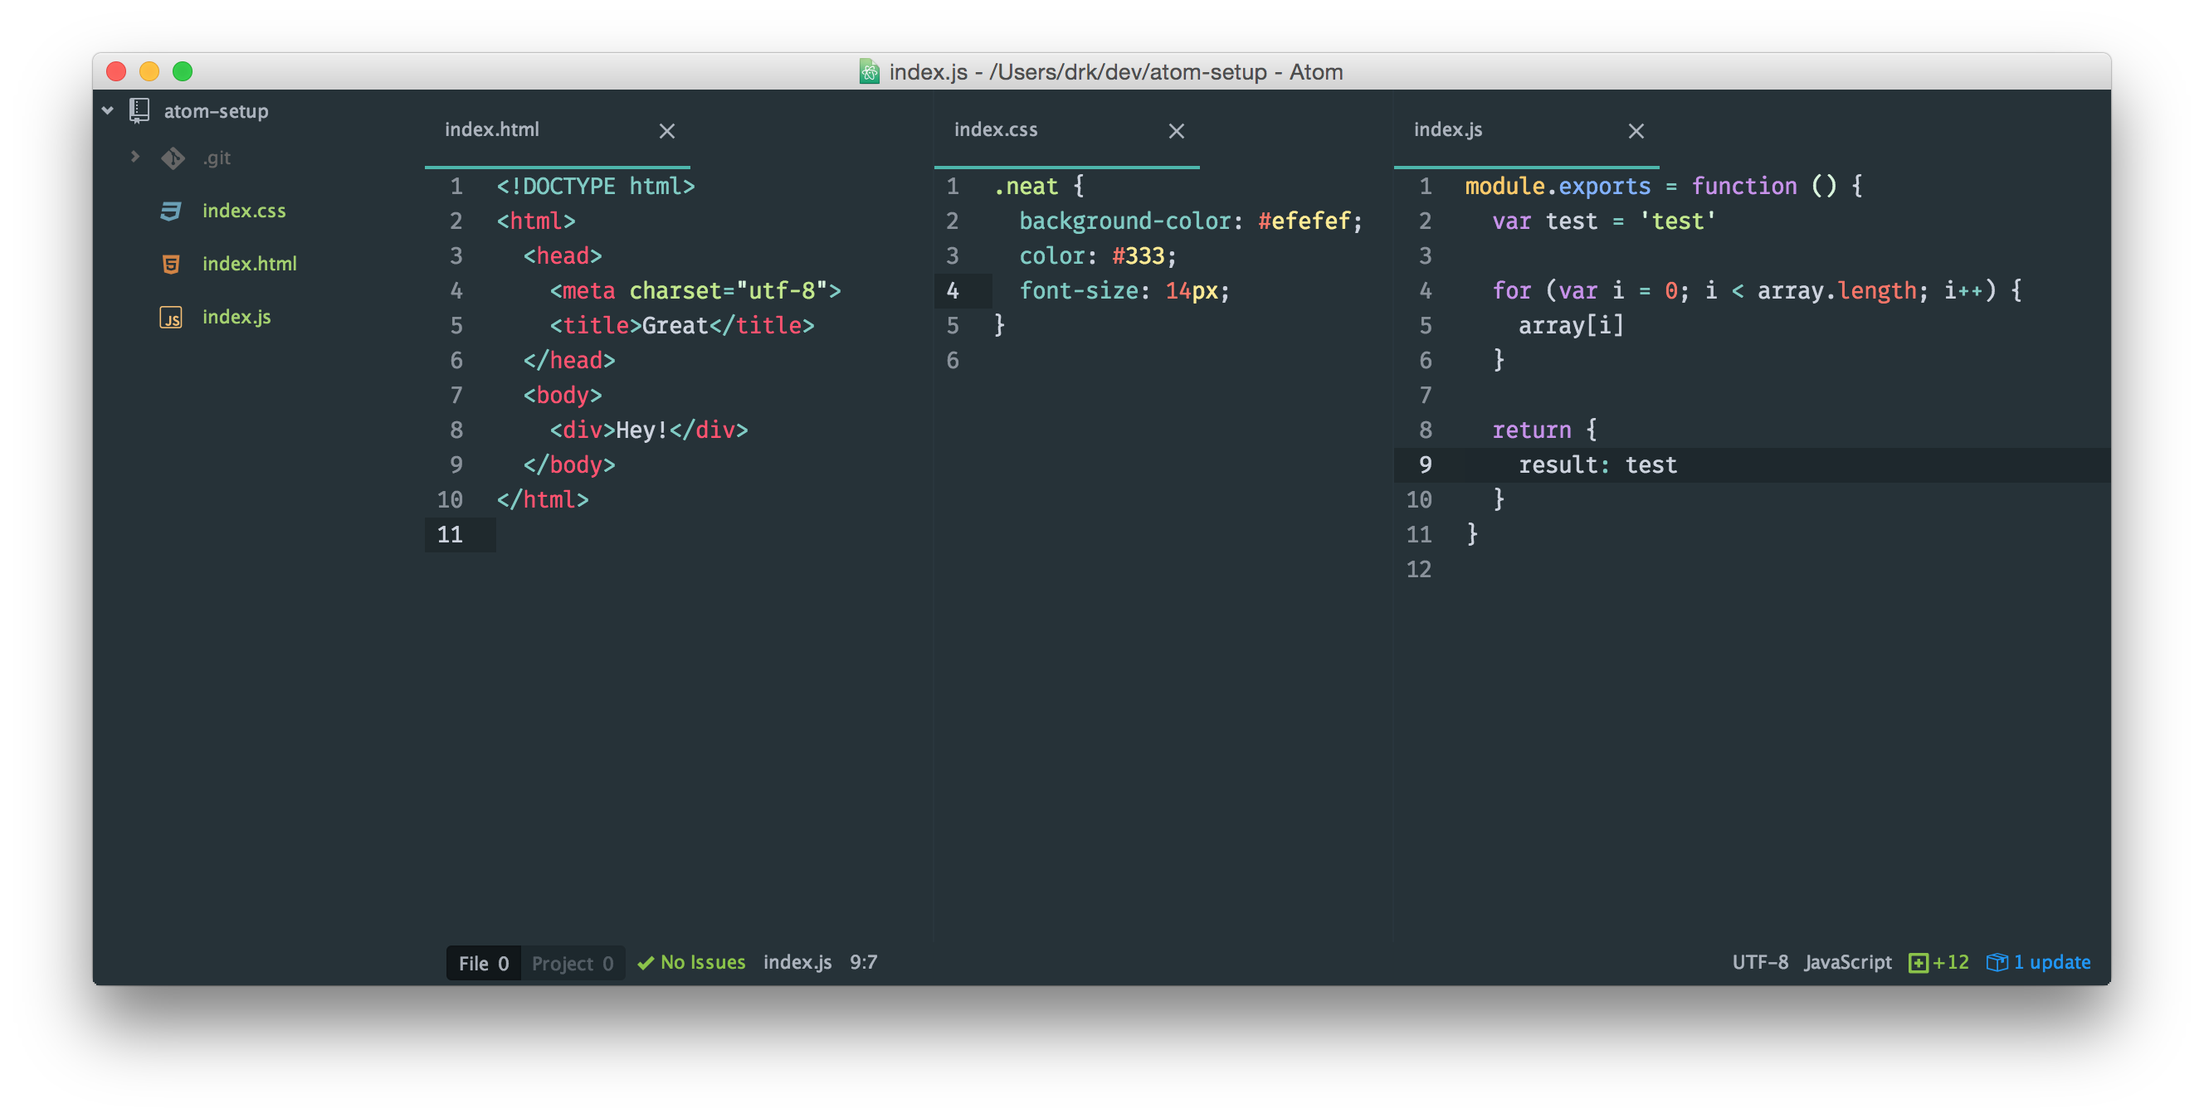
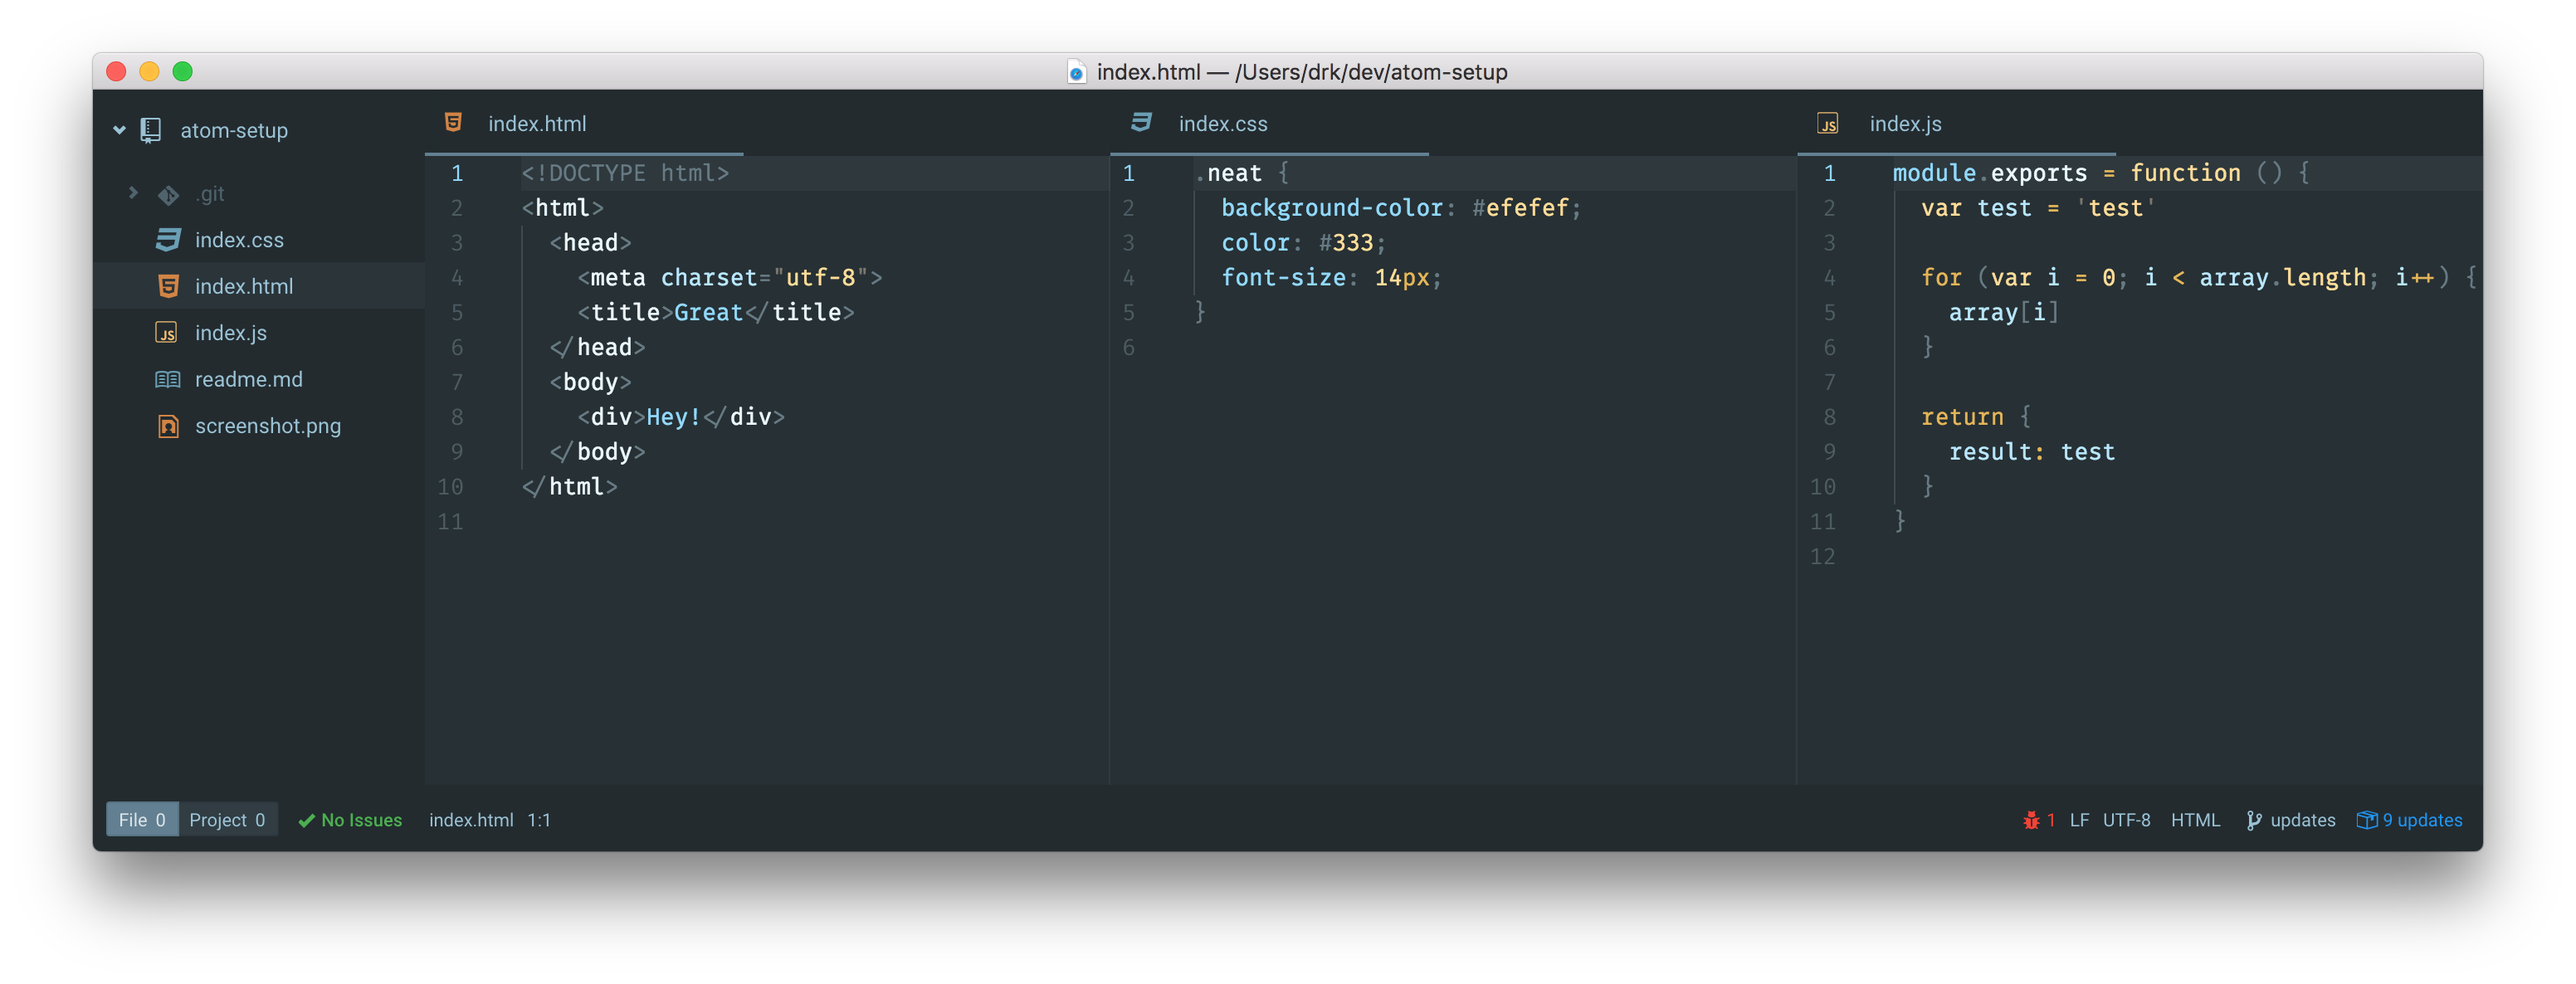
Add new packages and UI theme w/ screenshot

Changed region(s): [[0.0312, 0.0312, 0.9688, 0.9047], [0.6875, 0.3744, 0.8125, 0.468]]

diff --git a/readme.md b/readme.md
@@ -11,7 +11,7 @@
 # Themes
 
 - [Atom Material UI](https://atom.io/themes/atom-material-ui)
-- [Atom Material Syntax](https://atom.io/themes/atom-material-syntax)
+- [Duotone Blue Dark](https://atom.io/themes/duotone-blue-dark-syntax)
 
 # Packages
 
